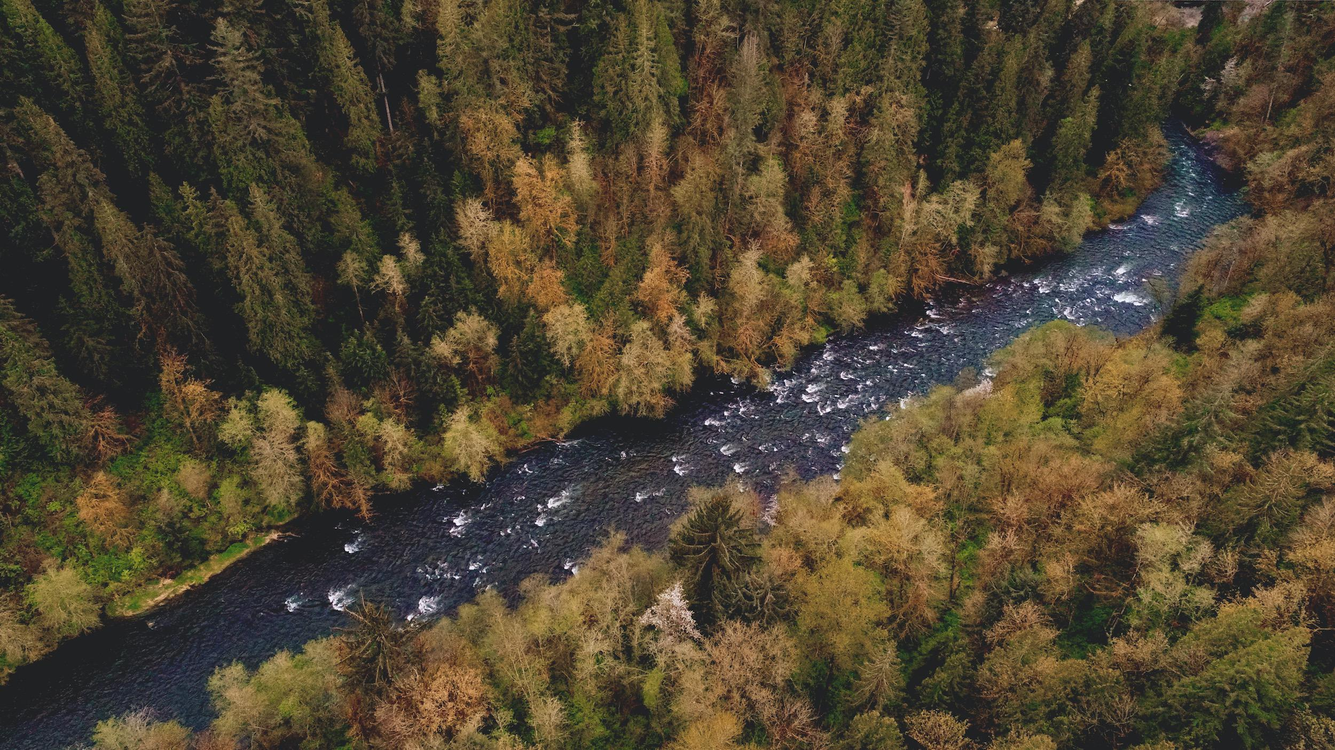
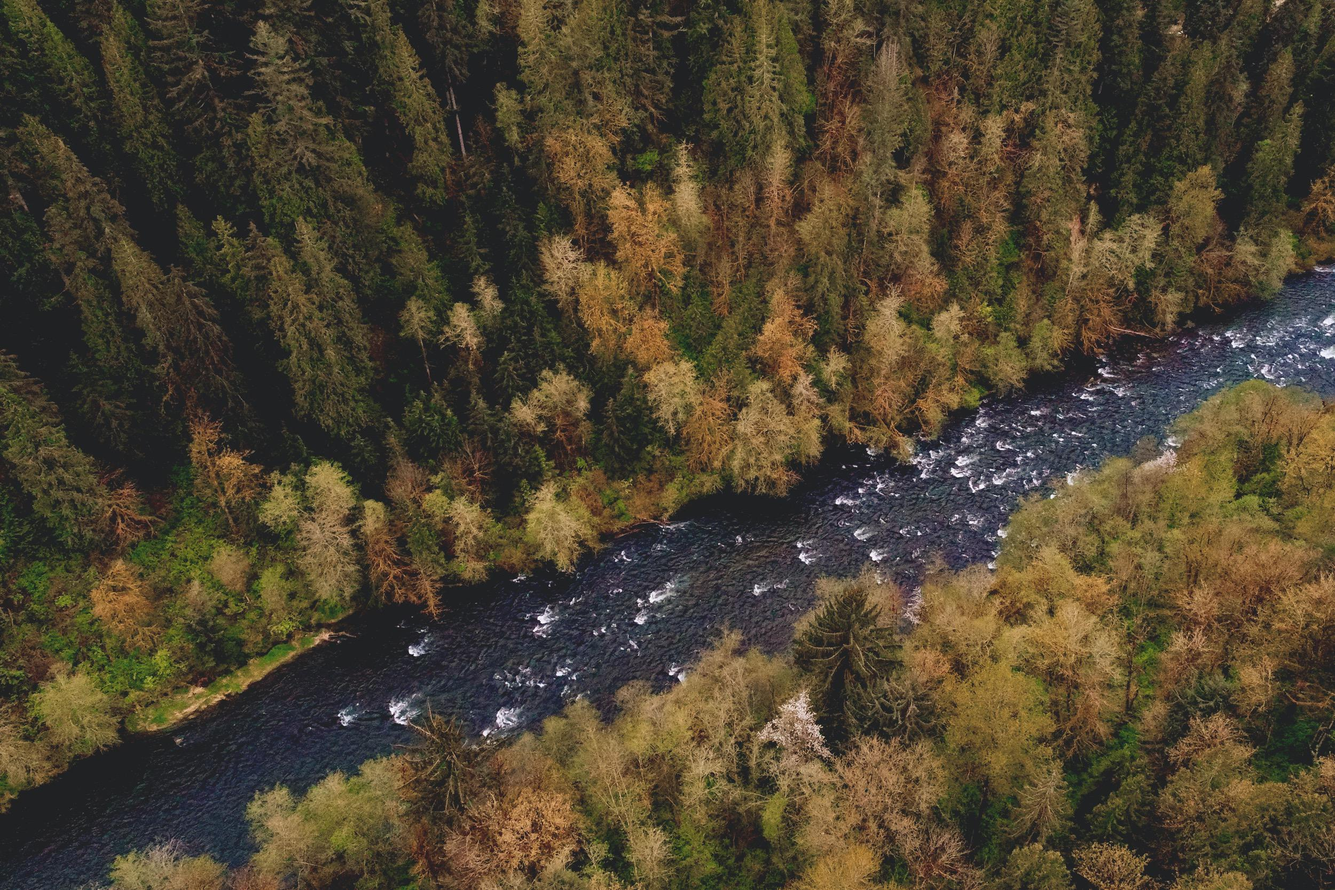
addded subpage hero images and corrected text

diff --git a/index.html b/index.html
@@ -42,7 +42,7 @@
             <div class="hero-content">
                 <div class="hero-title hidden-tn">iTotem</div>
                 <div class="hero-description">
-                    We make economic benefits visible at the project site, on the shop floor, and in the community.
+                    Visible benefits, measurable progress
                 </div>
             </div>
         </div>

diff --git a/compliance.html b/compliance.html
@@ -37,7 +37,7 @@
     </div>
 
     <div class="hero-subpage">
-        <img src="images/hero/DJI_00101220170308.jpg">
+        <img src="images/hero/compliance.jpg">
         <div class="hero-subpage-content">
             <div class="subpage-title">Compliance Simplified</div>
             <div class="subpage-subtitle">

diff --git a/css/style.css b/css/style.css
@@ -408,7 +408,7 @@ body {
     position: relative;
 }
 .hero-subpage img {
-    opacity: 0.6;
+    opacity: 0.4;
     width: 100%;
     min-height: 250px;
 }
